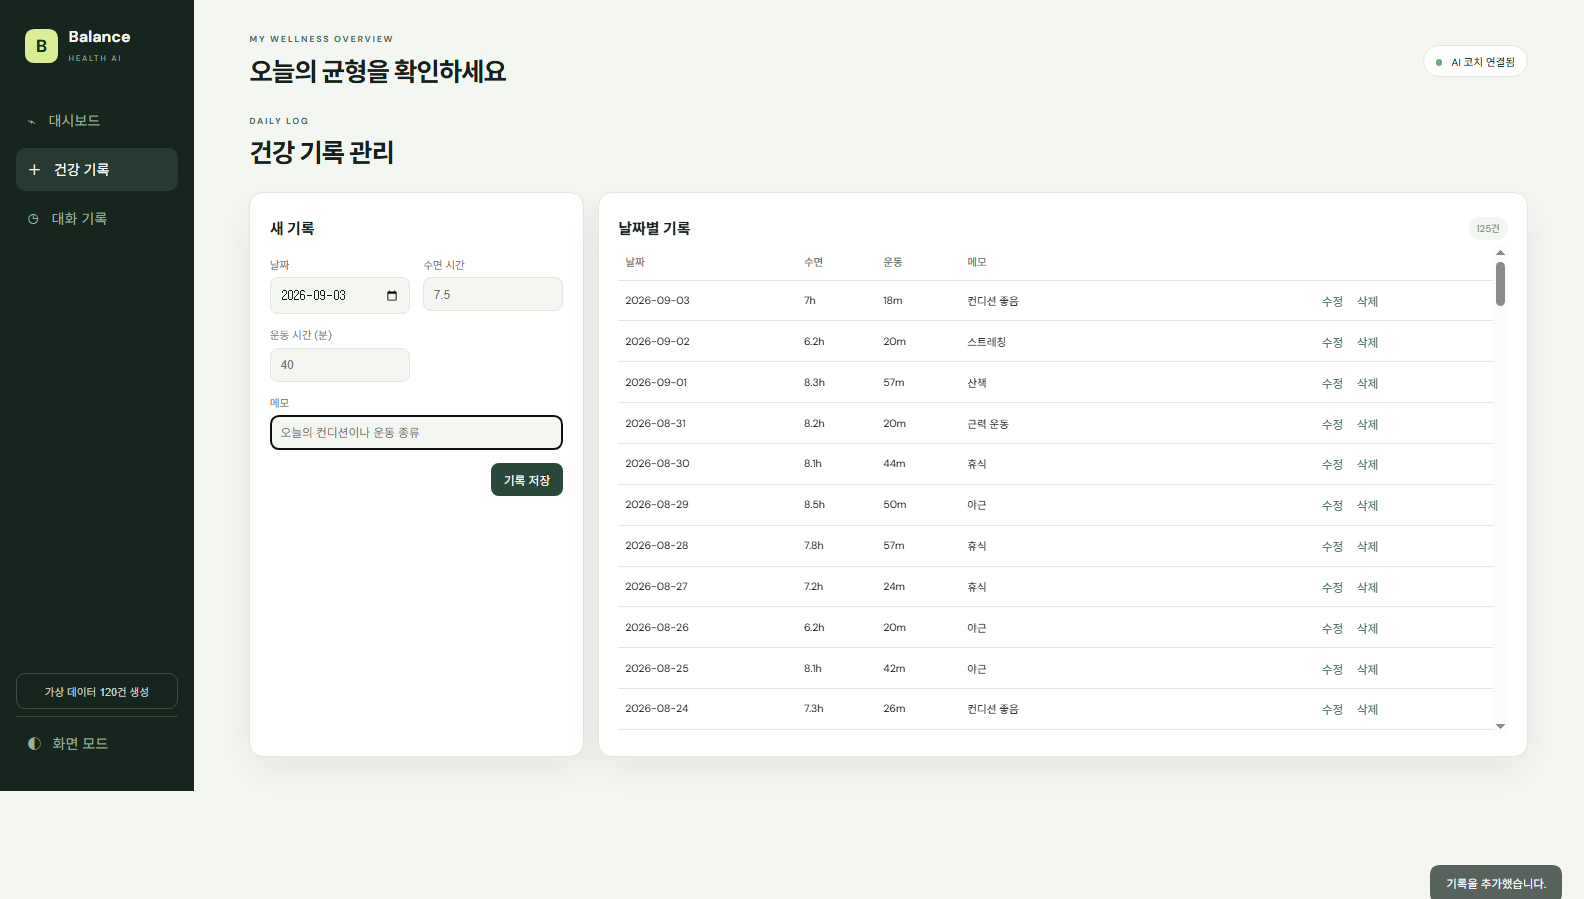
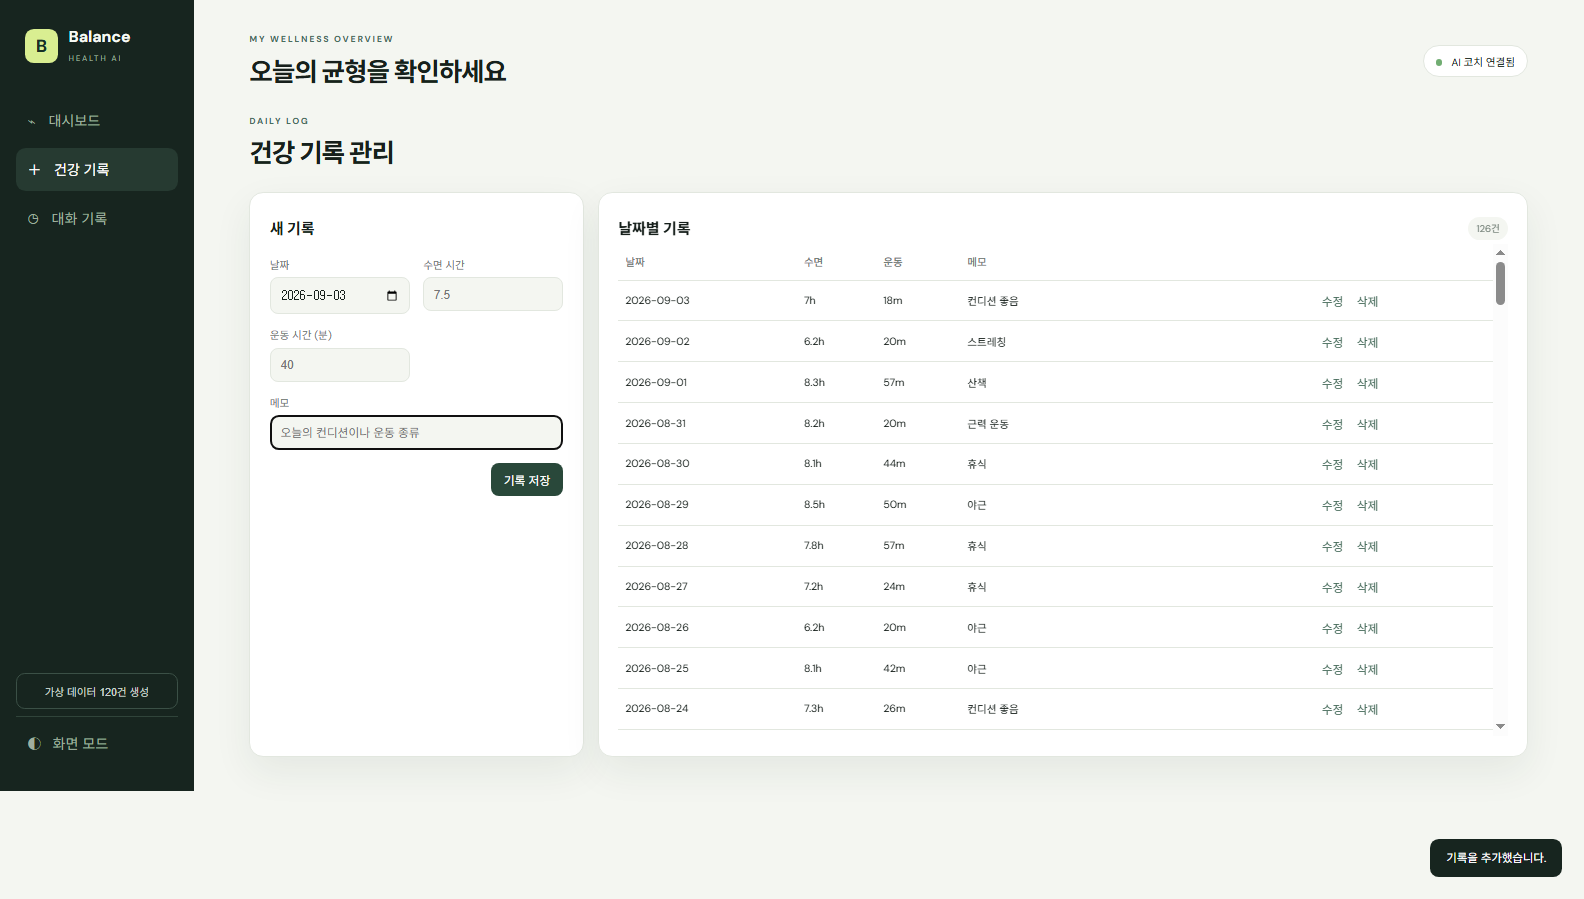
test: verify preview deployment and refresh captures

Changed region(s): [[0.8971, 0.9344, 0.9899, 1.0]]

diff --git a/scripts/capture_submission.py b/scripts/capture_submission.py
@@ -1,6 +1,7 @@
 """배포된 Balance AI를 자동 조작해 제출용 스크린샷을 만든다."""
 
 from datetime import date, timedelta
+import os
 from pathlib import Path
 import shutil
 import tempfile
@@ -13,8 +14,11 @@ from selenium.webdriver.support import expected_conditions as EC
 from selenium.webdriver.support.ui import WebDriverWait
 
 
-FRONTEND_URL = "https://3-2-son884999-oss-projects.vercel.app"
-API_URL = "https://balance-ai-api.onrender.com"
+FRONTEND_URL = os.getenv(
+    "CAPTURE_FRONTEND_URL",
+    "https://3-2-son884999-oss-projects.vercel.app",
+).rstrip("/")
+API_URL = os.getenv("CAPTURE_API_URL", "https://balance-ai-api.onrender.com").rstrip("/")
 OUTPUT_DIR = Path(__file__).resolve().parents[1] / "screenshots"
 
 
